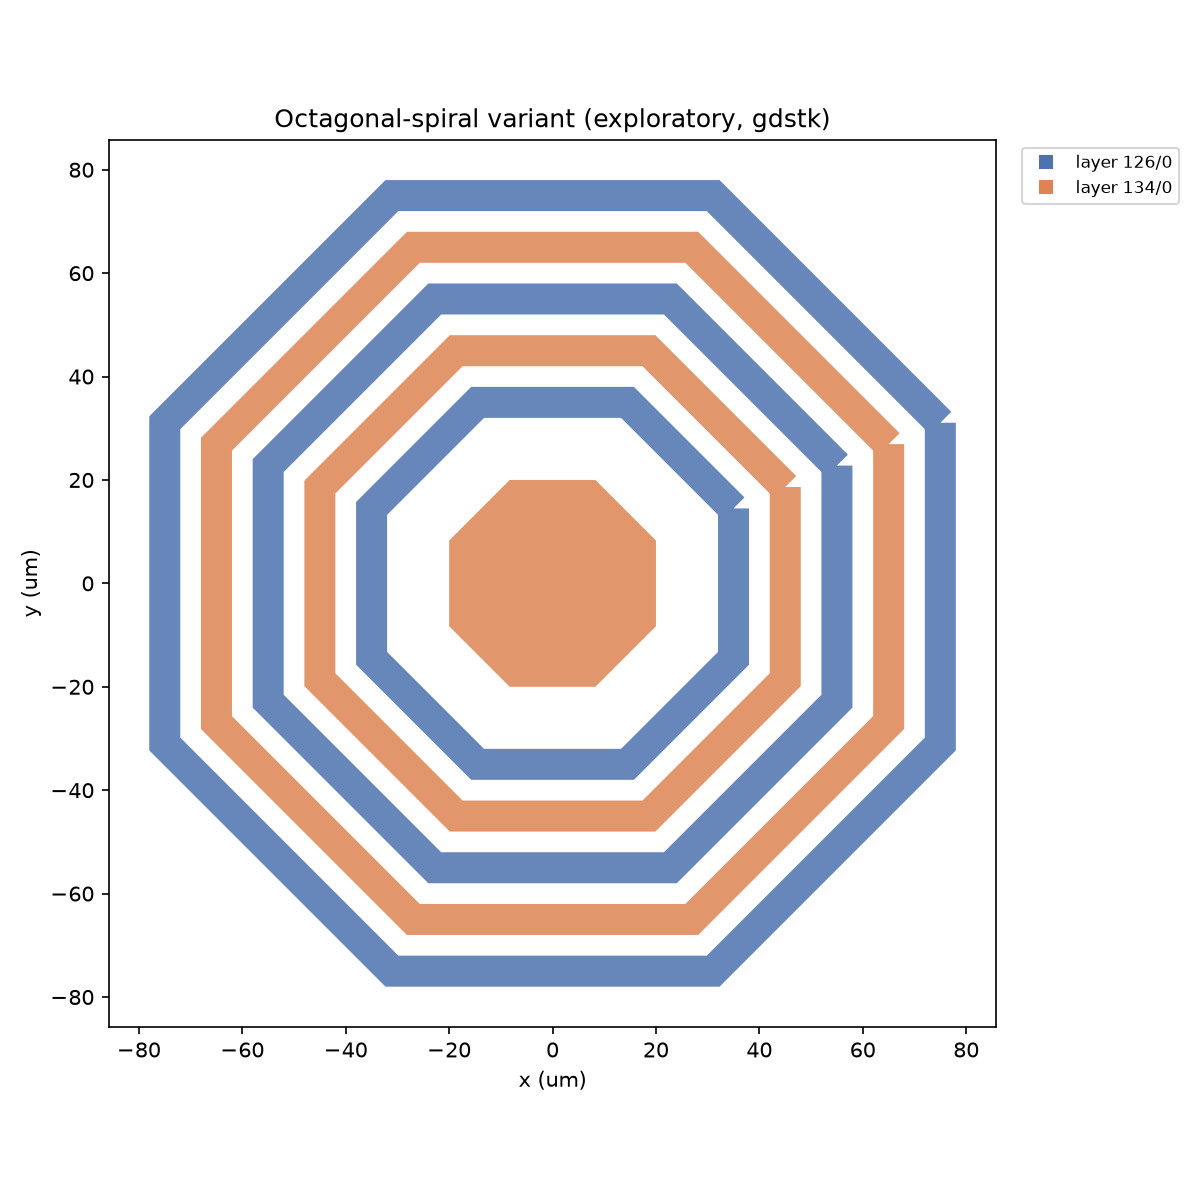
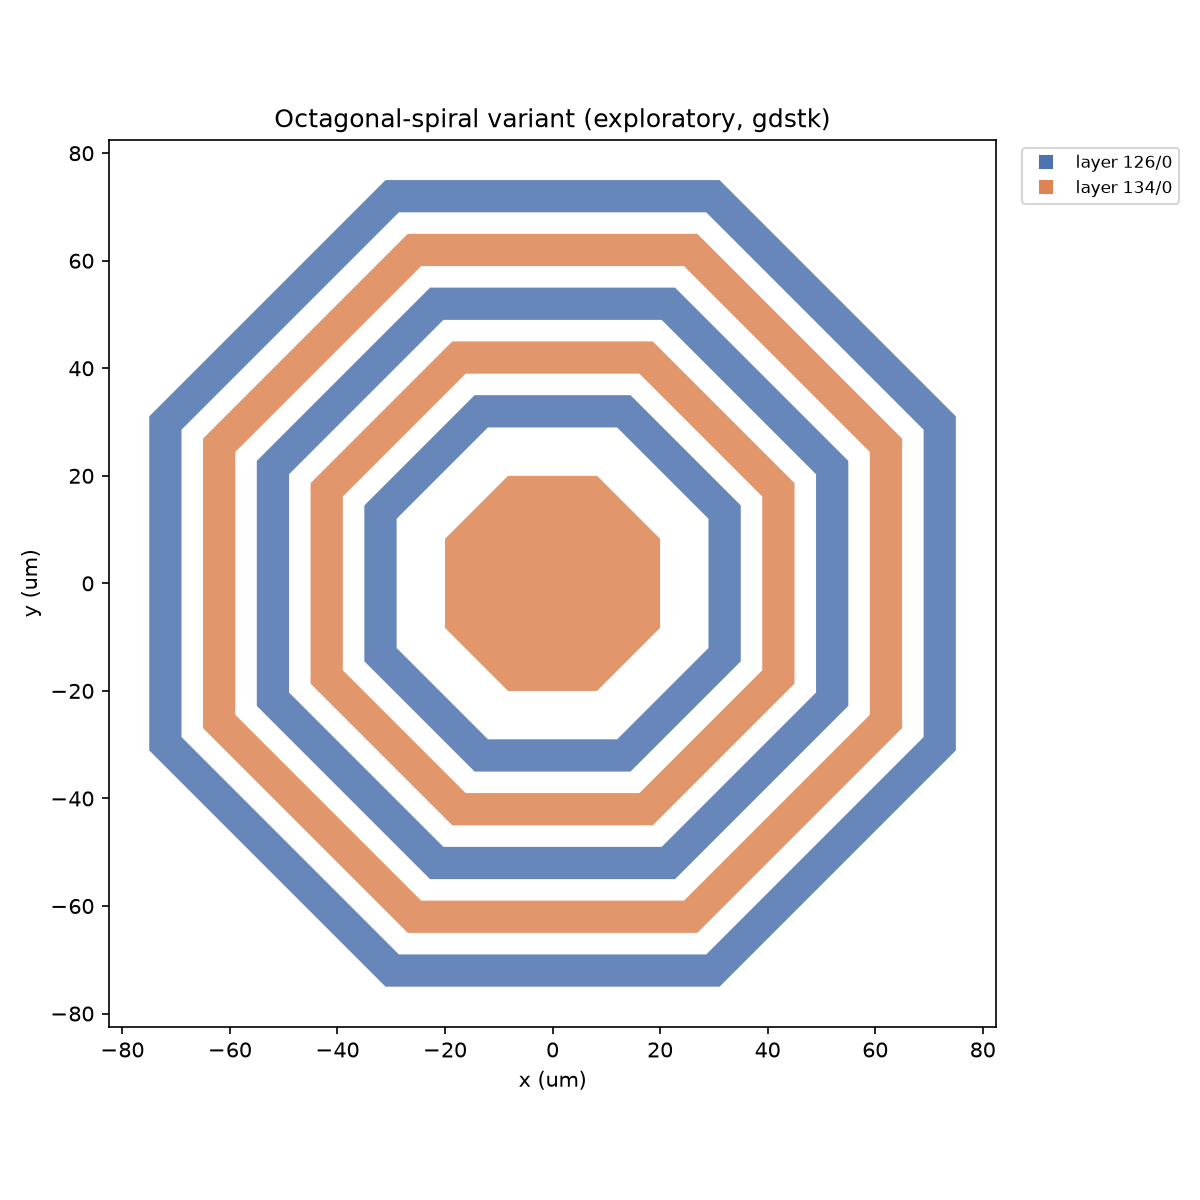
fix: draw missing endratio coil segment; use polygon-difference octagon rings
Review caught both against the notebook's own reference diagram and a KLayout
render: the last-segment branch computed but never drew its endratio-controlled
trace (ported faithfully from the same gap in the source), and the exploratory
octagon variant stroked a FlexPath around ring vertices instead of building a
closed annulus (per dgrujic/pcLab's octSegment approach), leaving corner gaps.

diff --git a/benchmark/geometry/tcoil/octagon_variant.py b/benchmark/geometry/tcoil/octagon_variant.py
@@ -4,6 +4,16 @@ a faithful port of CreateTCoilTraceVanilla); only its optional bond pad is octag
 (templates.create_octagon_pad). This reuses that same octagon angle math to build a full
 octagonal spiral instead, mainly to demonstrate gdstk handles non-rectilinear geometry equally
 well and to have a second shape worth previewing.
+
+Ring construction: each turn is a closed annulus -- gdstk.boolean("not") between an outer and
+an inner concentric octagon polygon -- not a stroked FlexPath traced around the vertices.
+dgrujic/pcLab's pclab/pclGeom.py::octSegment() (looked at on request) confirmed the general
+approach octagon rings need to be built as explicit closed polygons, not stroked paths --
+FlexPath's mitering doesn't close cleanly at the 45deg/135deg octagon corners, leaving gaps.
+pcLab hand-derives one 8-point polygon per quadrant (with extra ground-contact/bridge details
+not needed here); a plain boolean-difference annulus is simpler and still structurally gapless.
+Ring width is only approximately `wid` (the inner octagon is offset by `2*wid` in `siz`, which
+is a cos(pi/8) factor off an exact constant-width offset) -- fine for this exploratory demo.
 """
 from __future__ import annotations
 
@@ -25,11 +35,13 @@ def generate_octagon_variant(params: TCoilParams, *, thick_metals=None,
     n_turns = max(2, params.nseg // 4)
     for turn in range(n_turns):
         siz = base_siz - turn * 2 * params.gap
-        if siz <= params.wid * 3:
+        inner_siz = siz - 2 * params.wid
+        if inner_siz <= params.wid:
             break
-        pts = create_octagon_points(0, 0, siz)
         ring_layer = thick_metals[turn % 2]
-        shape_list.append(gdstk.FlexPath(pts + [pts[0]], params.wid, layer=ring_layer, datatype=0))
+        outer = gdstk.Polygon(create_octagon_points(0, 0, siz))
+        inner = gdstk.Polygon(create_octagon_points(0, 0, inner_siz))
+        shape_list += gdstk.boolean(outer, inner, "not", layer=ring_layer, datatype=0)
 
     library = gdstk.Library()
     cell = library.new_cell(cell_name)

diff --git a/src/passivelab/geometry/tcoil/generator.py b/src/passivelab/geometry/tcoil/generator.py
@@ -119,6 +119,7 @@ def generate_tcoil(params: TCoilParams, *, thick_metals=None, gnd_metal=M5_METAL
                     termix = sizX - id_turn * gap
                     tmp_list = [(startx, org_id_turn * gap + wid / 2), (startx, id_turn * gap),
                                 (startx + (termix - startx) * endratio + wid / 2, id_turn * gap)]
+                    shape_list.append(gdstk.FlexPath(tmp_list, wid, layer=thick_metals[cur_metal], datatype=0))
                     lstx, lsty = tmp_list[-1]
                     lstx -= wid / 2
                     shape_list.append(gdstk.FlexPath([(lstx, lsty + wid / 2), (lstx, -Lext)], wid,
@@ -128,6 +129,7 @@ def generate_tcoil(params: TCoilParams, *, thick_metals=None, gnd_metal=M5_METAL
                     startx, termix = id_turn * gap, sizY - id_turn * gap
                     tmp_list = [(sizX - id_turn * gap, -wid / 2 + startx),
                                 (sizX - id_turn * gap, wid / 2 + startx + (termix - startx) * endratio)]
+                    shape_list.append(gdstk.FlexPath(tmp_list, wid, layer=thick_metals[cur_metal], datatype=0))
                     lstx, lsty = tmp_list[-1]
                     lsty -= wid / 2
                     shape_list.append(gdstk.FlexPath([(lstx - wid / 2, lsty), (sizX + Lext, lsty)], wid,
@@ -137,6 +139,7 @@ def generate_tcoil(params: TCoilParams, *, thick_metals=None, gnd_metal=M5_METAL
                     startx, termix = sizX - id_turn * gap, id_turn * gap
                     tmp_list = [(-wid / 2 + startx, sizY - id_turn * gap),
                                 (wid / 2 + startx + (termix - startx) * endratio, sizY - id_turn * gap)]
+                    shape_list.append(gdstk.FlexPath(tmp_list, wid, layer=thick_metals[cur_metal], datatype=0))
                     lstx, lsty = tmp_list[-1]
                     lstx += wid / 2
                     shape_list.append(gdstk.FlexPath([(lstx, lsty - wid / 2), (lstx, sizY + Lext)], wid,
@@ -147,6 +150,7 @@ def generate_tcoil(params: TCoilParams, *, thick_metals=None, gnd_metal=M5_METAL
                     termix = id_turn * 2 * gap + (gap if cur_metal == 1 else 2 * gap)
                     tmp_list = [(id_turn * gap, wid / 2 + startx),
                                 (id_turn * gap, -wid / 2 + startx - (startx - termix) * endratio)]
+                    shape_list.append(gdstk.FlexPath(tmp_list, wid, layer=thick_metals[cur_metal], datatype=0))
                     lstx, lsty = tmp_list[-1]
                     lsty += wid / 2
                     shape_list.append(gdstk.FlexPath([(lstx + wid / 2, lsty), (-Lext, lsty)], wid,

diff --git a/benchmark/geometry/tcoil/benchmark_generation_speed_report.md b/benchmark/geometry/tcoil/benchmark_generation_speed_report.md
@@ -27,8 +27,11 @@ to an explicit field here so it's genuinely one of the 11, not baked in.
 
 | Case | Min (µs) | Mean (µs) | Max (µs) | StdDev (µs) | Rounds |
 |---|---|---|---|---|---|
-| `nseg=24` (wid=5, gap=8) | 287.6 | 337.7 | 1045.0 | 75.2 | 2478 |
-| `nseg=10` (wid=7, gap=12, the notebook's own vector) | 347.7 | 378.5 | 875.1 | 43.7 | 1231 |
+| `nseg=24` (wid=5, gap=8) | 290.9 | 339.8 | 782.4 | 76.1 | 2557 |
+| `nseg=10` (wid=7, gap=12, the notebook's own vector) | 348.6 | 375.4 | 695.9 | 27.3 | 1616 |
+
+(Re-measured after the endratio-segment fix below — one extra polygon per generation,
+negligible effect on timing.)
 
 Sub-millisecond generation for a single T-coil either way. The notebook's Stage 3 batches
 thousands of samples (`TOOLS_AND_ARTIFACTS.md` Stage 3 row) — at ~0.3–0.4 ms/sample, 5,000
@@ -57,8 +60,8 @@ found hard to install, and is a second, independent maintainability signal beyon
 
 | Case | Polygons | File size |
 |---|---|---|
-| `nseg=10` (notebook vector) | 311 | 20,656 bytes |
-| `nseg=24` | 207 | 14,400 bytes |
+| `nseg=10` (notebook vector) | 312 | 20,736 bytes |
+| `nseg=24` | 208 | 14,480 bytes |
 
 Note: polygon/file-size count does **not** scale monotonically with `nseg` alone — it depends
 more on via-array density (`wid`/`gap` ratio) than turn count, since `_combine_layer` merges
@@ -68,23 +71,44 @@ batch generation run.
 
 ## 6. Visual verification
 
-Two previews rendered with `preview.py` (matplotlib, no KLayout GUI) and visually inspected
-before committing:
+**Two real bugs found and fixed after review** (caught by comparing a KLayout render of the
+committed `.gds` against the golden notebook's own reference diagram, and by inspecting the
+octagon preview closely):
 
-- `previews/tcoil_rect.png` — the notebook's own `nseg=10` vector: octagon pad, ground-plane
-  cutout, one mostly-coincident outer double-layer ring (see note below) — matches expectations
-  for that specific parameter choice.
-- A second render at `nseg=20` (not committed, used only to sanity-check the spiral logic)
-  clearly showed a proper multi-ring stepped-in rectangular spiral, confirming the winding
-  logic is correct — at `nseg=10`, `id_turn` only reaches `0`/`1` (it increments every *two*
-  full 4-segment turns), so the two metal layers route the *same* outer loop before the spiral
-  starts stepping inward. This is a real T-coil design characteristic (both thick-metal layers
-  used on the outer ring, matching `docs/PRD/Phase 1 — TCoil Platformization.md` §5's "top-two
-  thick metals for the coil"), not a porting bug — confirmed by tracing the exact coordinates
-  by hand against the ported code.
-- `previews/tcoil_octagon.png` — the bonus octagonal-spiral variant (exploratory, not from the
-  notebook — see `octagon_variant.py`): a clean symmetric multi-ring octagonal spiral with a
-  central pad, demonstrating gdstk handles non-rectilinear geometry equally well.
+- **Missing endratio-controlled segment.** The notebook's own documentation diagram
+  ("Seg9 (Blue)", length = `[endratio] * maxlen_Seg9`, `Tap_segid=4` — exactly this report's
+  test vector) shows the *last* coil segment (`tid == nseg-1`) should draw a visible trace
+  before its perpendicular `Lext` lead-out. Re-checking the ported source
+  (`reference/markdown/TCoil_Dataset_Generator_and_Training.md`, the `if tid == nseg - 1:`
+  branch) confirmed it computes that segment's path (`tmp_list`) to derive the lead-out
+  coordinates but never draws it — unlike the non-last-segment branch just below, which does.
+  Ported faithfully from the source at first; the notebook's own diagram confirms it's a real
+  completeness gap, not a stylistic omission. **Fixed**: added the missing
+  `shape_list.append(gdstk.FlexPath(tmp_list, wid, layer=thick_metals[cur_metal], ...))` in all
+  4 directional cases of that branch (`generator.py`). Verified directly: for the baseline
+  vector the new polygon is the brown segment at x∈[134.5,141.5], y∈[8.5,63.5] — it now bridges
+  what was previously a floating, disconnected orange lead-out bar. Polygon count 311 → 312
+  (exactly one new shape, as expected — only one of the 4 cases fires per generation).
+- **Octagon ring corners not connected** (bonus/exploratory `octagon_variant.py` only — the
+  validated rectangular T-coil was unaffected). The original implementation stroked a
+  `gdstk.FlexPath` around the octagon vertices; FlexPath's mitering didn't close cleanly at the
+  45°/135° corners, leaving gaps. Looked at
+  [dgrujic/pcLab](https://github.com/dgrujic/pcLab)'s `pclab/pclGeom.py::octSegment()` (on
+  request) — it confirms the right general approach: octagon rings must be built as **explicit
+  closed polygons**, never stroked paths; pcLab hand-derives one 8-point polygon per quadrant
+  (with extra ground-contact/bridge details this demo doesn't need). **Fixed** with a simpler
+  version of the same idea: each ring is now `gdstk.boolean(outer_octagon, inner_octagon,
+  "not", ...)` — the same annulus-via-boolean-difference technique already used successfully in
+  `templates.create_ground_plane` — structurally gapless since it's a polygon operation, not a
+  stroke.
+
+Both previews re-rendered and re-inspected after the fixes: `previews/tcoil_rect.png` (the
+notebook's own `nseg=10` vector — octagon pad, ground-plane cutout, the now-connected
+double-layer outer ring — at `nseg=10`, `id_turn` only reaches `0`/`1` since it increments every
+*two* full 4-segment turns, so both thick-metal layers legitimately route the same outer loop
+before the spiral steps inward, matching "top-two thick metals for the coil" in the PRD, not a
+bug) and `previews/tcoil_octagon.png` (now a clean, fully-connected multi-ring octagonal
+spiral with a central pad).
 
 ## 7. Determinism
 
@@ -122,4 +146,7 @@ Full port: `src/passivelab/geometry/tcoil/{generator.py,templates.py}`, ~230 lin
 gdstk reproduces the golden notebook's T-coil faithfully (same coordinates, same parameters,
 valid GDS, sub-millisecond generation), needs no gdspy-style workaround, and the one thing that
 made a live gdspy comparison impossible here — its Windows build requirement — is itself
-further evidence against gdspy, on top of 1.1.1's archived-repo finding.
+further evidence against gdspy, on top of 1.1.1's archived-repo finding. One completeness bug
+was caught in review (§6, the missing endratio segment) and fixed before this report was
+finalized — worth noting for 1.1.3 as a reminder that a mechanical port still needs the same
+"compare against the reference diagram, not just the source" scrutiny gdspy code itself would.